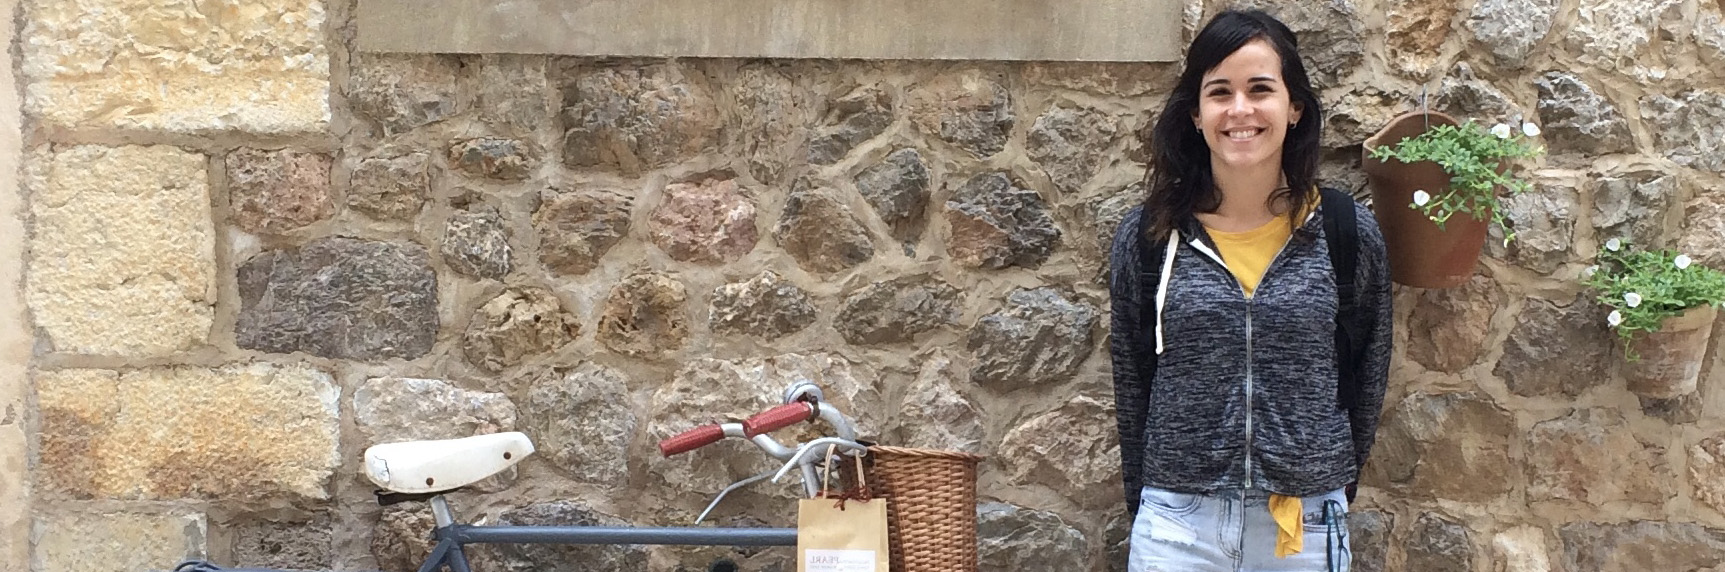
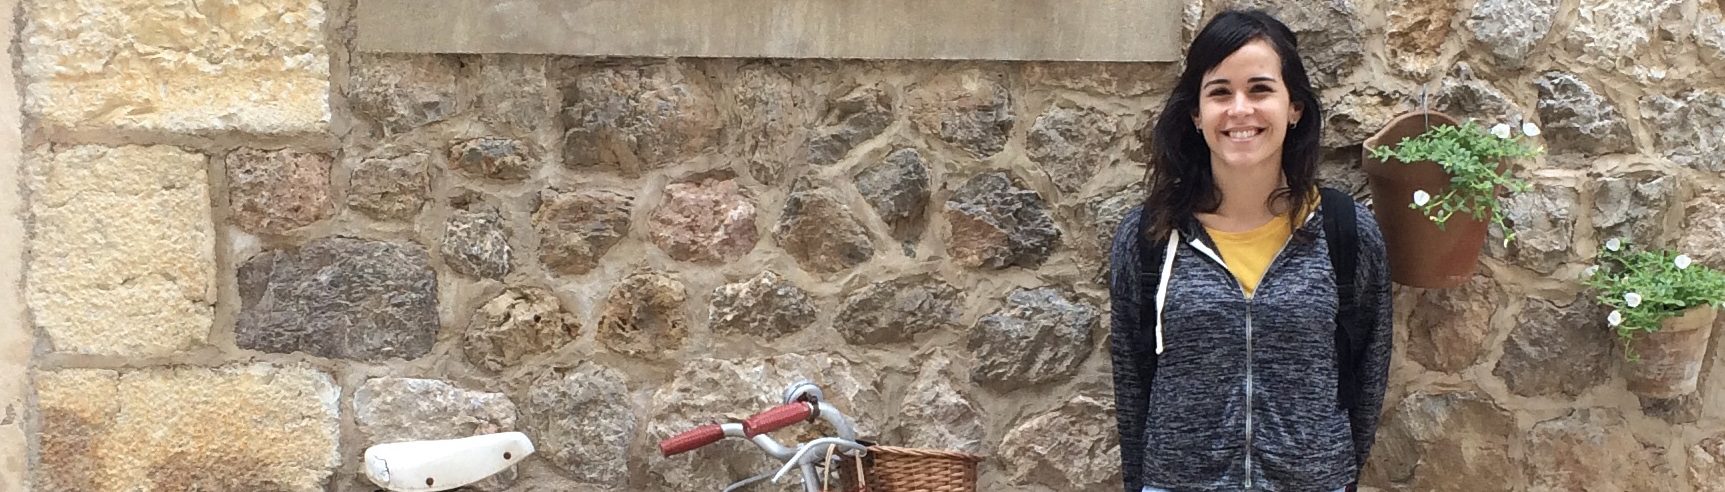
styled main section and updated hero-image

diff --git a/index.html b/index.html
@@ -13,7 +13,7 @@
 
   <body>
     <header>
-      <img src="image/logo.png" alt="Logo" title="Logo" width="140">
+      <img class="logo"src="image/logo.png" alt="Logo" title="Logo" width="140">
 
       <nav>
         <ul>
@@ -27,22 +27,37 @@
     </header>
 
     <main>
-      <section class="hero-image">
-        <img src="image/hero-image.jpg" alt="Hero Image" title="Hero Image">
+
+      <section>
+        <img class="hero-image" src="image/hero-image.png" alt="Hero Image" title="Hero Image">
         <h1>Hello, I'm Maira Manley<br />Web Design Graduate Student<br />and Former Assistant Director</h1>
       </section>
 
-      <section class="top-block">
-        <h2>Web Design Projects</h2>
-        <p>These are some of my web design projects, done as a student at University of Florida.</p>
-        <img src="image/design-photo.png" alt="Design Project" title="Design Project" width="160">
-      </section>
+      <div class="container">
+        <section>
+          <div class="left-half">
+            <img src="image/design-photo.png" alt="Design Project" title="Design Project" width="160">
+          </div>
 
-      <section class="bottom-block">
-        <h2>Video Projects</h2>
-        <p>These are some of my projects as a professional assistant director.</p>
-        <img src="image/video.png" alt="Video Project" title="Video Project" width="400">
-      </section>
+          <div class="right-half">
+            <h2>Web Design Projects</h2>
+            <p>These are some of my web design projects, done as a student at University of Florida.</p>
+          </div>
+        </section>
+      </div>
+
+      <div class="container">
+        <section>
+          <div class="left-half">
+            <h2>Video Projects</h2>
+            <p>These are some of my projects as a professional assistant director.</p>
+          </div>
+
+          <div class="right-half">
+            <img src="image/video.png" alt="Video Project" title="Video Project" width="400">
+          </div>
+        </section>
+      </div>
 
     </main>
   </body>

diff --git a/css/style.css b/css/style.css
@@ -12,7 +12,6 @@
 h1{
   font-family: mencken-std-head, sans-serif;
   color: white;
-  background:#f47f6f;
 }
 
 h2{
@@ -38,15 +37,66 @@ header {
     background: #f5f3f1;
     padding: 10px;
     font-family: montserrat, sans-serif;
-    font-weight: semibold;
+    max-width: 100%;
+    margin: 0 auto;
 }
 
 nav ul li a {
   text-decoration: none;
+  font-size: 18px;
   color: #404041;
+  padding: 20px;
+  margin-bottom: 40px;
 }
 
-header nav li {
+.logo,
+header nav,
+nav li  {
     display: inline-block;
-    margin: 40px;
+    text-align: right;
+}
+
+.logo {
+  margin-left: 40px;
+}
+
+nav {
+    width: 80%;
+    margin: 0 auto;
+}
+
+
+/*=======================================
+
+  Home Page Styling
+
+========================================*/
+
+
+.hero-image {
+  max-width: 100%;
+  margin: 0 auto;
+  position: relative;
+}
+
+h1 {
+  position: absolute;
+  max-width: 100%;
+  margin: 0 auto;
+  padding: 10px;
+  top: 200px;
+  left: 50px;
+  z-index: 99;
+}
+
+.container{
+  margin: 20px 0;
+  padding:10px 0;
+  background: #f5f3f1;
+}
+
+.left-half,
+.right-half {
+  width: 45%;
+  display: inline-block;
 }
